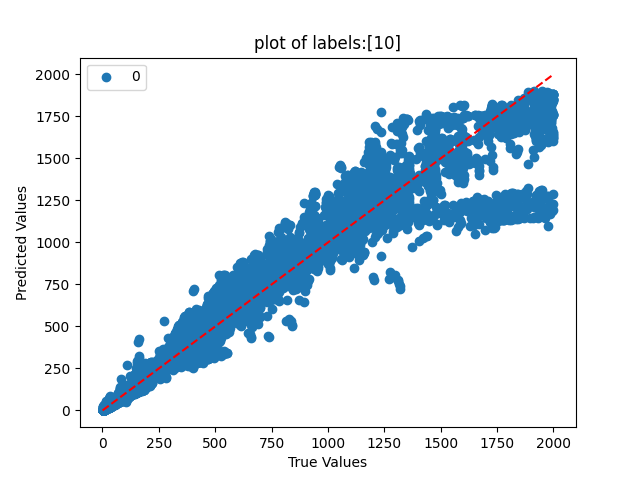
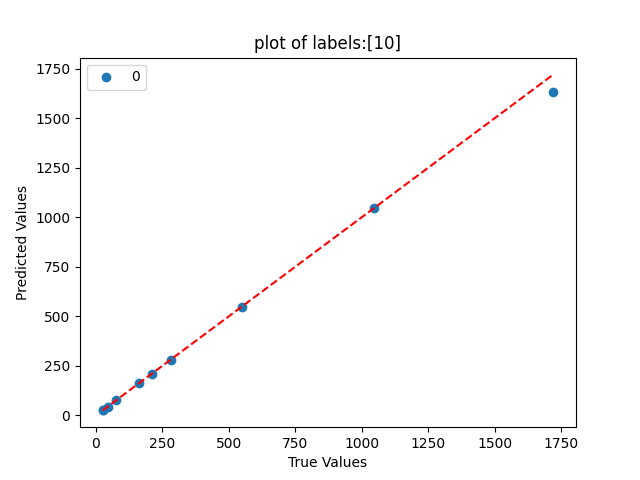
tried overfitting with up to 10 points, achieves great results

diff --git a/overfit.py b/overfit.py
@@ -30,7 +30,7 @@ class CSVDataset(Dataset):
         return torch.tensor(x, dtype=torch.float32), torch.tensor(y, dtype=torch.float32)
     
 class NeuralNetwork(nn.Module):
-    def __init__(self, input_size=8, output_size=3, nr_hidden_layers=3, nr_neurons=64, activation=nn.Tanh()):
+    def __init__(self, input_size=9, output_size=3, nr_hidden_layers=3, nr_neurons=64, activation=nn.Tanh()):
         super(NeuralNetwork, self).__init__()
         
         self.input_size = input_size
@@ -86,7 +86,7 @@ class NeuralNetwork(nn.Module):
         
         return x
 
-def load_data(csv_file,labels=[9,10,11]):
+def load_data(csv_file,labels=[9,10,11],rows=10):
     # Load data
     df = pd.read_csv(csv_file)
     
@@ -94,6 +94,10 @@ def load_data(csv_file,labels=[9,10,11]):
     X = df.iloc[:, [0,1,3,4,5,6,7,8,12] ].values  # Ignore column with real Temperature and use isotherm temperature
     y = df.iloc[:, labels].values # Three outputs to predict
 
+
+    X = X[:rows]
+    y = y[:rows]
+        
     os.makedirs(f"plots/%s"%str(labels), exist_ok=True)
     
     for label in range(len(labels)):
@@ -125,8 +129,8 @@ def load_data(csv_file,labels=[9,10,11]):
     plt.close()
 
     # Train-test split
-    X_train, X_test, y_train, y_test = train_test_split(X, y, test_size=0.2, random_state=42, shuffle=False)
-    return X_train, X_test, X_scaler, y_train, y_test, y_scaler
+    #X_train, X_test, y_train, y_test = train_test_split(X, y, test_size=.0, random_state=42, shuffle=False)
+    return X, X, X_scaler, y, y, y_scaler
 
 def plot_results(x_loss,y_loss,true_values,predictions,labels):
     
@@ -152,18 +156,16 @@ def relative_error(pred,true,label,name):
     dir = f"stats/%s"%name
     os.makedirs(dir,exist_ok=True)
     err_rel = (pred - true) / true
-    avg = np.mean(err_rel)
+    avg = np.std(err_rel)
     with open(dir + "/errors.txt","a") as file:
-        print("The average relative error of label:",label," is: ", avg, file=file)
-    print("after whith")
+        print("The standard deviation of the relative error of label:",label," is: ", avg, file=file)
     print(type(pred))
     plt.hist(err_rel,bins=200)
     plt.title(f"Relative Error for label:%s"%label)
     plt.savefig(dir + "/plot")
     plt.close()
-    print("after error plt")
 
-def main(csv_file='../Daten/Clean_Results_Isotherm.csv', num_epochs=1000, batch_size=4096, learning_rate=0.01,labels=[9,10,11],nr_hidden_layers=3,nr_neurons=16):
+def main(csv_file='../Daten/Clean_Results_Isotherm.csv', num_epochs=10000, batch_size=4096, learning_rate=0.01,labels=[9,10,11],nr_hidden_layers=3,nr_neurons=16):
 
     device = torch.device('cuda' if torch.cuda.is_available() else 'cpu')
     print('Using device:', device)
@@ -249,13 +251,7 @@ if __name__ == "__main__":
 
     filename = '../Daten/Clean_Results_Isotherm.csv'
     os.makedirs("Models/",exist_ok=True)
-    model9 = main(csv_file=filename, labels=[9])
+    model9 = main(csv_file=filename, labels=[9,10,11])
     torch.save(model9.state_dict(),"Models/9.pt")
-    model10 = main(csv_file=filename, labels=[10])
-    torch.save(model10.state_dict(), "Models/10.pt")
-    model11 = main(csv_file=filename, labels=[11])
-    torch.save(model11.state_dict(), "Models/11.pt")
-    modeltotal = main(csv_file=filename, labels=[9,10,11])
-    torch.save(modeltotal.state_dict(), "Models/total.pt")
 
 
